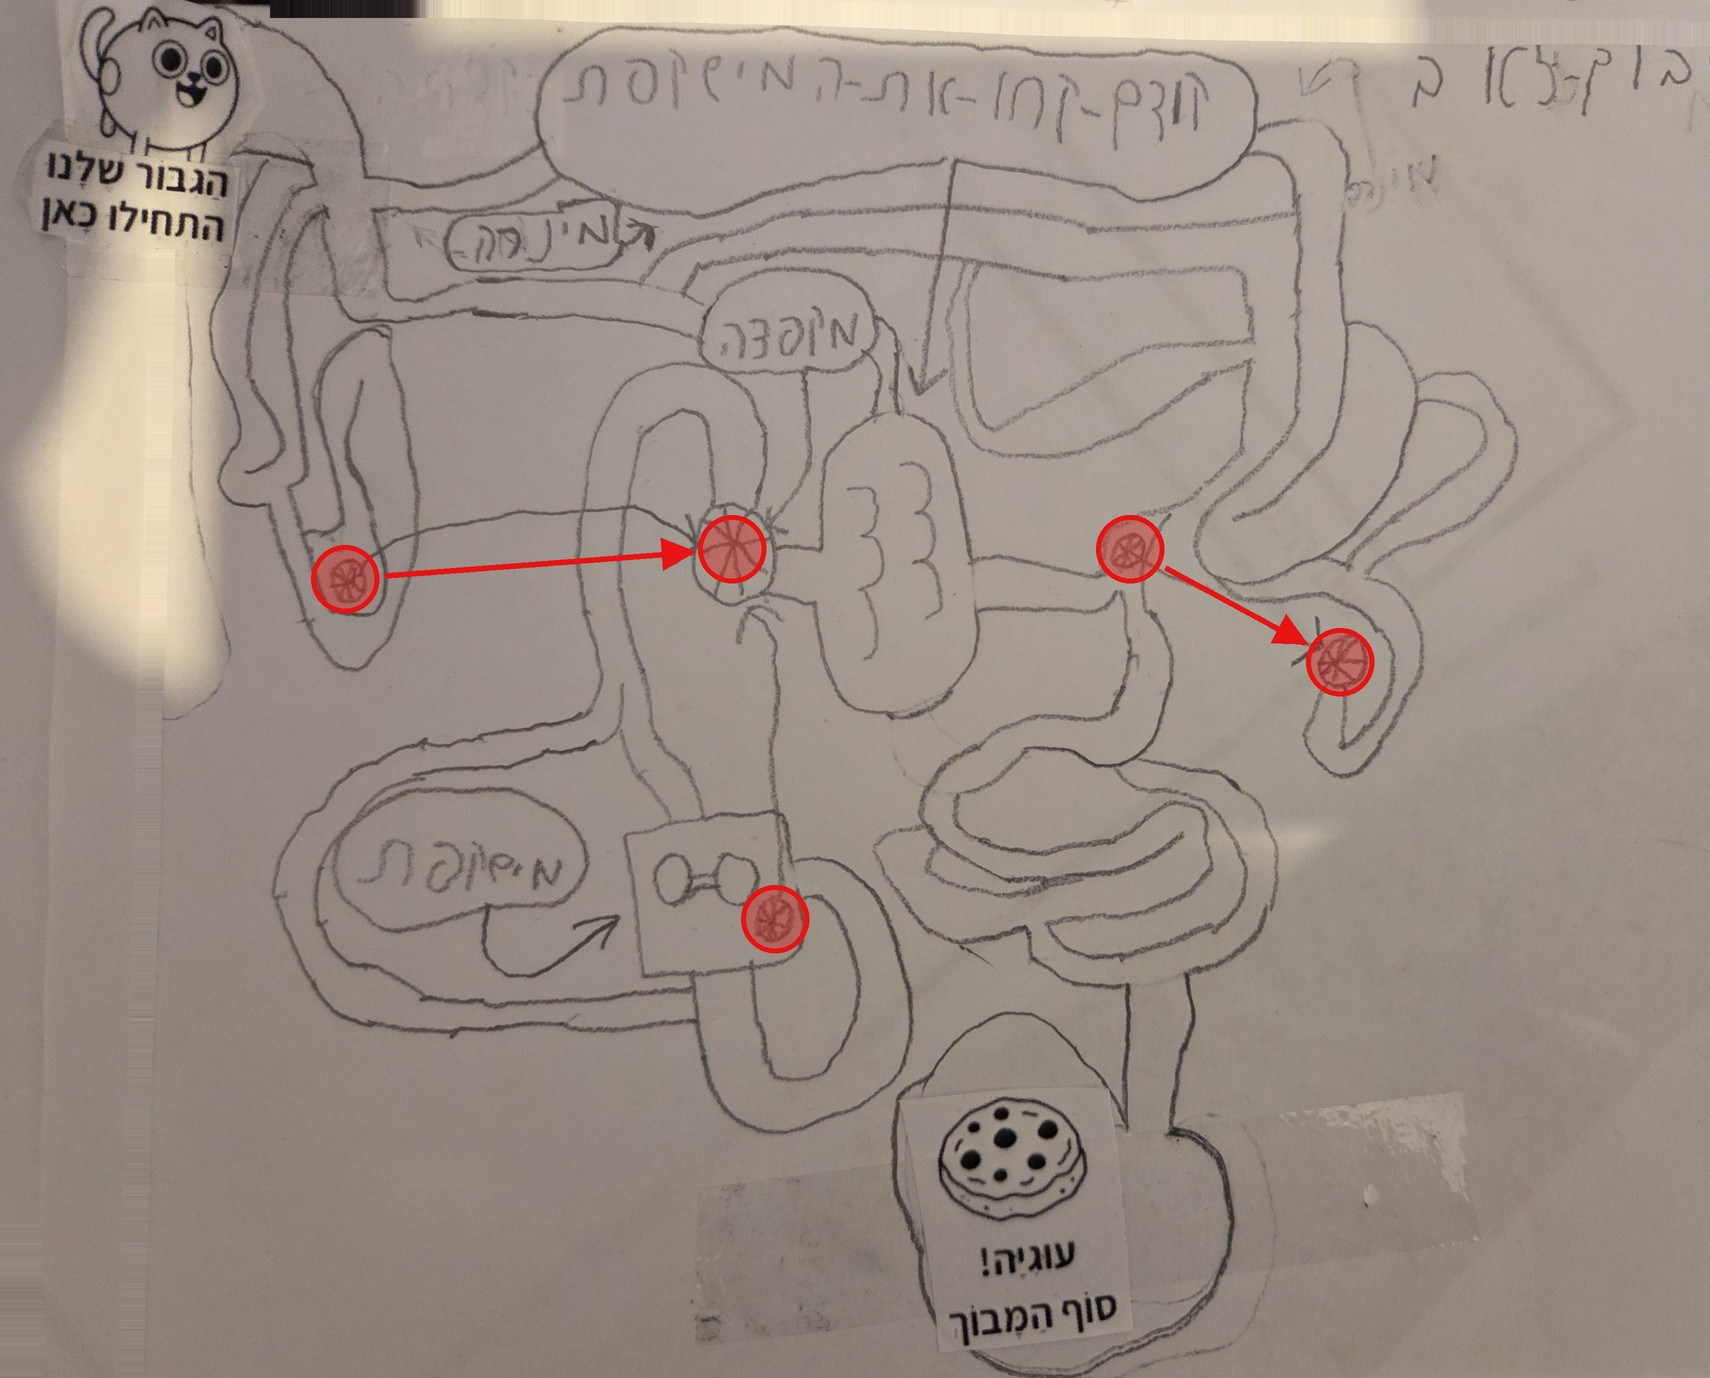
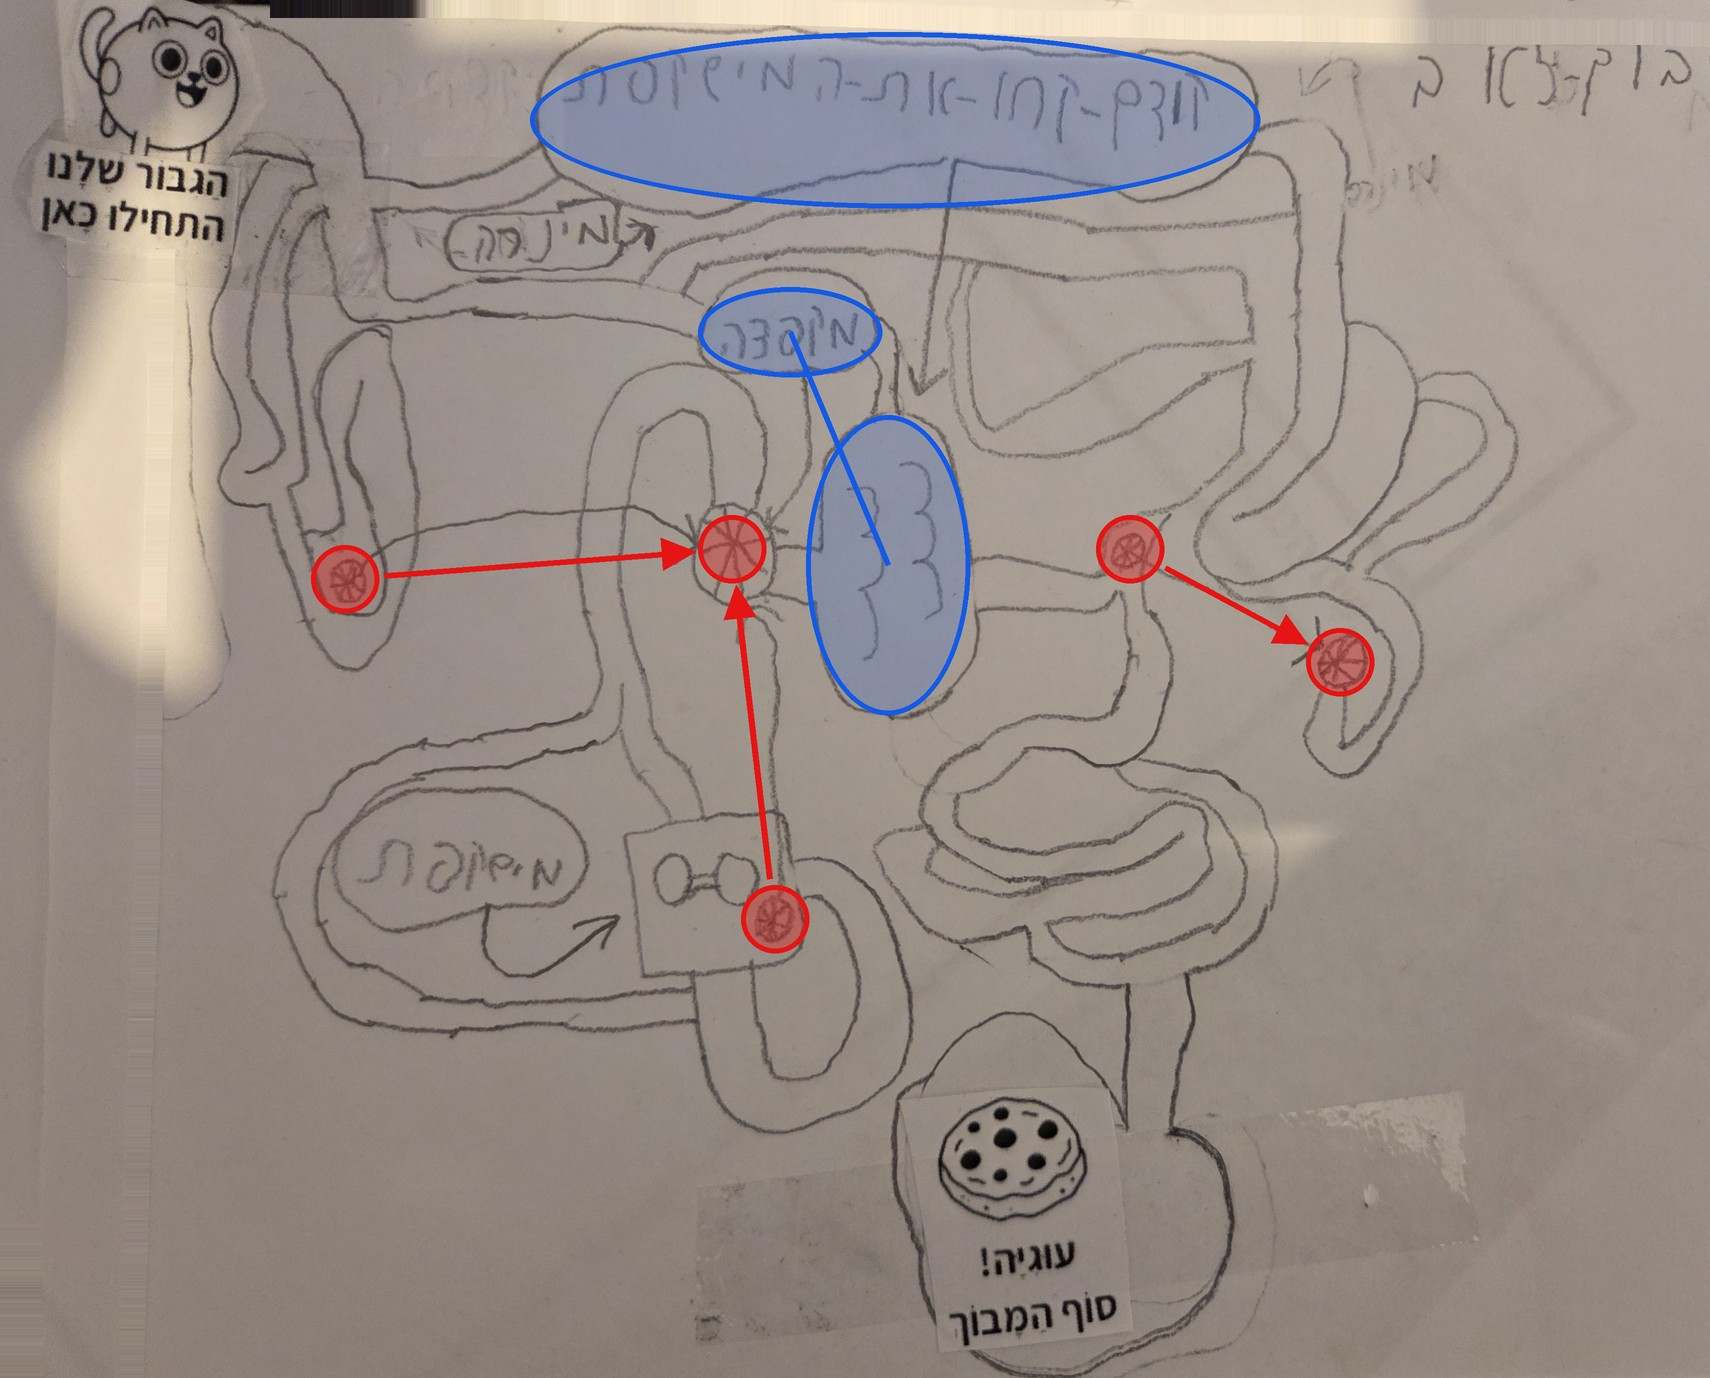
Add T5->T2 arrow, tunnel annotations, structured annotations.json, clean image

Changed region(s): [[0.3099, 0.0, 0.7439, 0.156], [0.4029, 0.1872, 0.5889, 0.6241]]

diff --git a/tools/render.py b/tools/render.py
@@ -1,0 +1,68 @@
+import math, sys, statistics
+from PIL import Image, ImageDraw, ImageOps
+im = ImageOps.exif_transpose(Image.open('/tmp/maze.jpg')).convert('RGB')
+S=2
+g = im.convert('L'); gp = g.load(); px = im.load()
+THR=90
+def med(v,k=15):
+    return [statistics.median(v[max(0,i-k):i+k+1]) for i in range(len(v))]
+# top line: per display-x, first dark y (full res scan) in y 45..110
+top={}
+for x in range(300,1741):
+    for y in range(56*S,112*S):
+        if gp[x*S,y]<THR: top[x]=y/S; break
+xs=sorted(top); ys=med([top[x] for x in xs])
+topfit=dict(zip(xs,ys))
+left={}
+for y in range(300,1436):
+    for x in range(120*S,260*S):
+        if gp[x,y*S]<THR: left[y]=x/S; break
+yy=sorted(left); xx=med([left[y] for y in yy])
+leftfit=dict(zip(yy,xx))
+print(len(topfit),len(leftfit), min(ys),max(ys),min(xx),max(xx))
+A,B=-6,18  # strip relative to first-dark (display px)
+SH=22
+# erase top line
+for x,y0 in topfit.items():
+    for X in range(x*S,x*S+S):
+        for Y in range(int((y0+A)*S),int((y0+B)*S)):
+            px[X,Y]=px[X,int((y0-6)*S)]
+for y,x0 in leftfit.items():
+    for Y in range(y*S,y*S+S):
+        for X in range(int((x0+A)*S),int((x0+B)*S)):
+            px[X,Y]=px[int((x0-8)*S),Y]
+for Y in range(1280*S,1440*S):
+    c=px[72*S,Y]
+    for X in range(25*S,72*S): px[X,Y]=c
+box=(30,56,1740,1434)
+im=im.crop(tuple(v*S for v in box)); ox,oy=box[0]*S,box[1]*S
+im.convert('RGB').resize((im.width//2,im.height//2),Image.LANCZOS).save('/tmp/work/maze_clean.jpg',quality=90)
+import json
+A=json.load(open('/tmp/work/annotations.json'))
+ov=Image.new('RGBA',im.size,(0,0,0,0)); d=ImageDraw.Draw(ov)
+red=(230,20,20,255); blue=(20,90,230,255)
+Z=lambda p:(p[0]*S,p[1]*S)
+T={t['id']:t for t in A['trampolines']}
+def arrow(p,q,col,w=12,gap=0,h=60):
+    (x1,y1),(x2,y2)=p,q
+    ang=math.atan2(y2-y1,x2-x1);c,s=math.cos(ang),math.sin(ang)
+    sx,sy=x1+gap*c,y1+gap*s; ex,ey=x2-gap*c,y2-gap*s
+    d.line((sx,sy,ex-h*.5*c,ey-h*.5*s),fill=col,width=w)
+    d.polygon([(ex+8*c,ey+8*s),(ex-h*c+h*.55*s,ey-h*s-h*.55*c),(ex-h*c-h*.55*s,ey-h*s+h*.55*c)],fill=col)
+for t in A['trampolines']:
+    x,y=Z(t['center']);r=t['radius']*S
+    d.ellipse((x-r,y-r,x+r,y+r),fill=(230,20,20,90),outline=red,width=10)
+for l in A['trampoline_links']:
+    a,b=T[l['from']],T[l['to']]
+    arrow(Z(a['center']),Z(b['center']),red,gap=(a['radius']+6)*S)
+U={t['id']:t for t in A['tunnels']}
+for t in A['tunnels']:
+    x,y=Z(t['center']);rx,ry=t['rx']*S,t['ry']*S
+    d.ellipse((x-rx,y-ry,x+rx,y+ry),fill=(20,90,230,50),outline=blue,width=10)
+for l in A['tunnel_links']:
+    a,b=U[l['from']],U[l['to']]
+    d.line((*Z(a['center']),*Z(b['center'])),fill=blue,width=10)
+out=Image.alpha_composite(im.convert('RGBA'),ov).convert('RGB')
+out=out.resize((out.width//2,out.height//2),Image.LANCZOS)
+out.save(sys.argv[1],quality=90)
+print(out.size)
